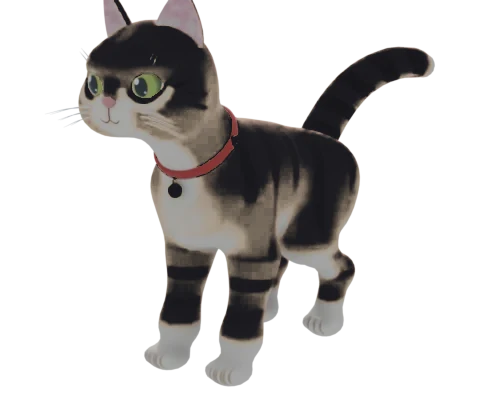
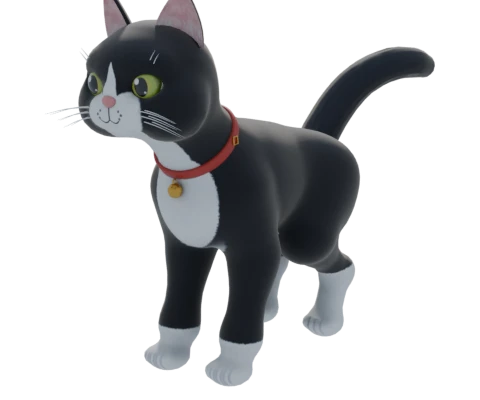
Skins repainted: a silver classic tabby, a real tuxedo, an atomic jade coat with atom markings
Painted per texel by art/day06/build_skins.py; thumbnails rendered from the model; eyelid colours to match.

diff --git a/src/main.js b/src/main.js
@@ -126,7 +126,7 @@ const CATS = {
 const THUMB = { ginger: 'models/thumb_ginger.webp', realistic: 'models/thumb_realistic.webp', tabby: 'models/thumb_toti.webp' };
 // Day 5: fur skins, bought with atom tokens (tokens.js SKINS). Each is the ginger kitty in another coat
 // (models/skins/<id>.webp, art/day05/make_skins.py, which also prints the eyelid colour that goes with it).
-const SKIN_LID = { silver: '#9ea4ad', tuxedo: '#1f1f25', atomic: '#83b255' };
+const SKIN_LID = { silver: '#bdc3cb', tuxedo: '#191b22', atomic: '#98d2b2' };   // (Day 6: the coats repainted by art/day06/build_skins.py)
 for (const k of SKINS) {
   CATS[k.id] = { ...CATS.ginger, label: k.name, base: 'ginger', skin: k.id, lid: SKIN_LID[k.id] };
   THUMB[k.id] = `models/skins/thumb_${k.id}.webp`;
